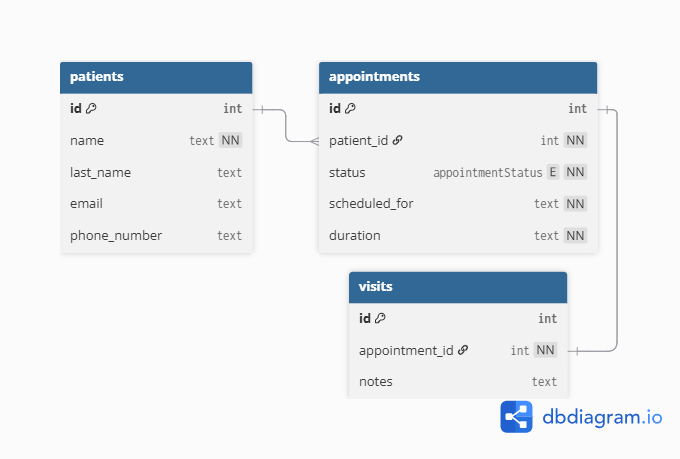
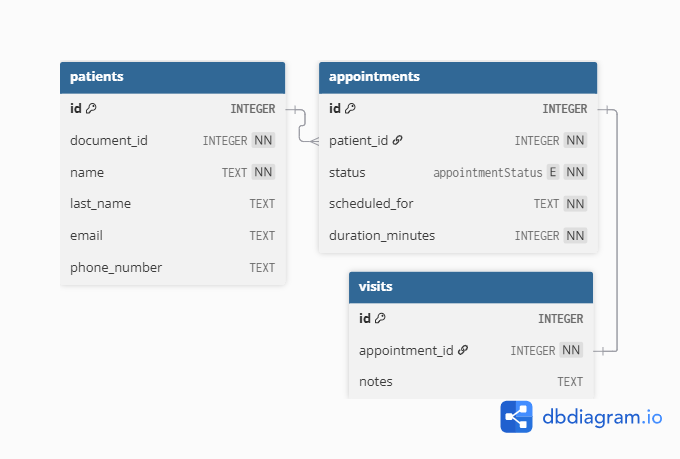
chore: defined modifications in fields types, standards and default values

diff --git a/internals/database/schema.go b/internals/database/schema.go
@@ -19,7 +19,7 @@ var tableSchema = []string{
 			DEFAULT 'CREATED' 
 			CHECK (status in ('CREATED','CONFIRMED','CANCELED','NO_SHOW')),
 		"scheduled_for" TEXT NOT NULL,
-		"duration" TEXT NOT NULL DEFAULT '1h',
+		"duration_minutes" INTEGER NOT NULL DEFAULT '60',
 		FOREIGN KEY (patient_id) REFERENCES patients(id)
 	);`,
 	`CREATE TABLE IF NOT EXISTS "visits" ( 

diff --git a/internals/services/appointment.go b/internals/services/appointment.go
@@ -3,10 +3,9 @@ package services
 import "time"
 
 type Appointment struct {
-	ID        int64
-	PatientID int64
-	Status    string
-	//not sure what time format
-	ScheduledFor time.Time
-	Duration     time.Duration
+	ID              int64
+	PatientID       int64
+	Status          string
+	ScheduledFor    time.Time // ISO8601 datetime
+	DurationMinutes int
 }
